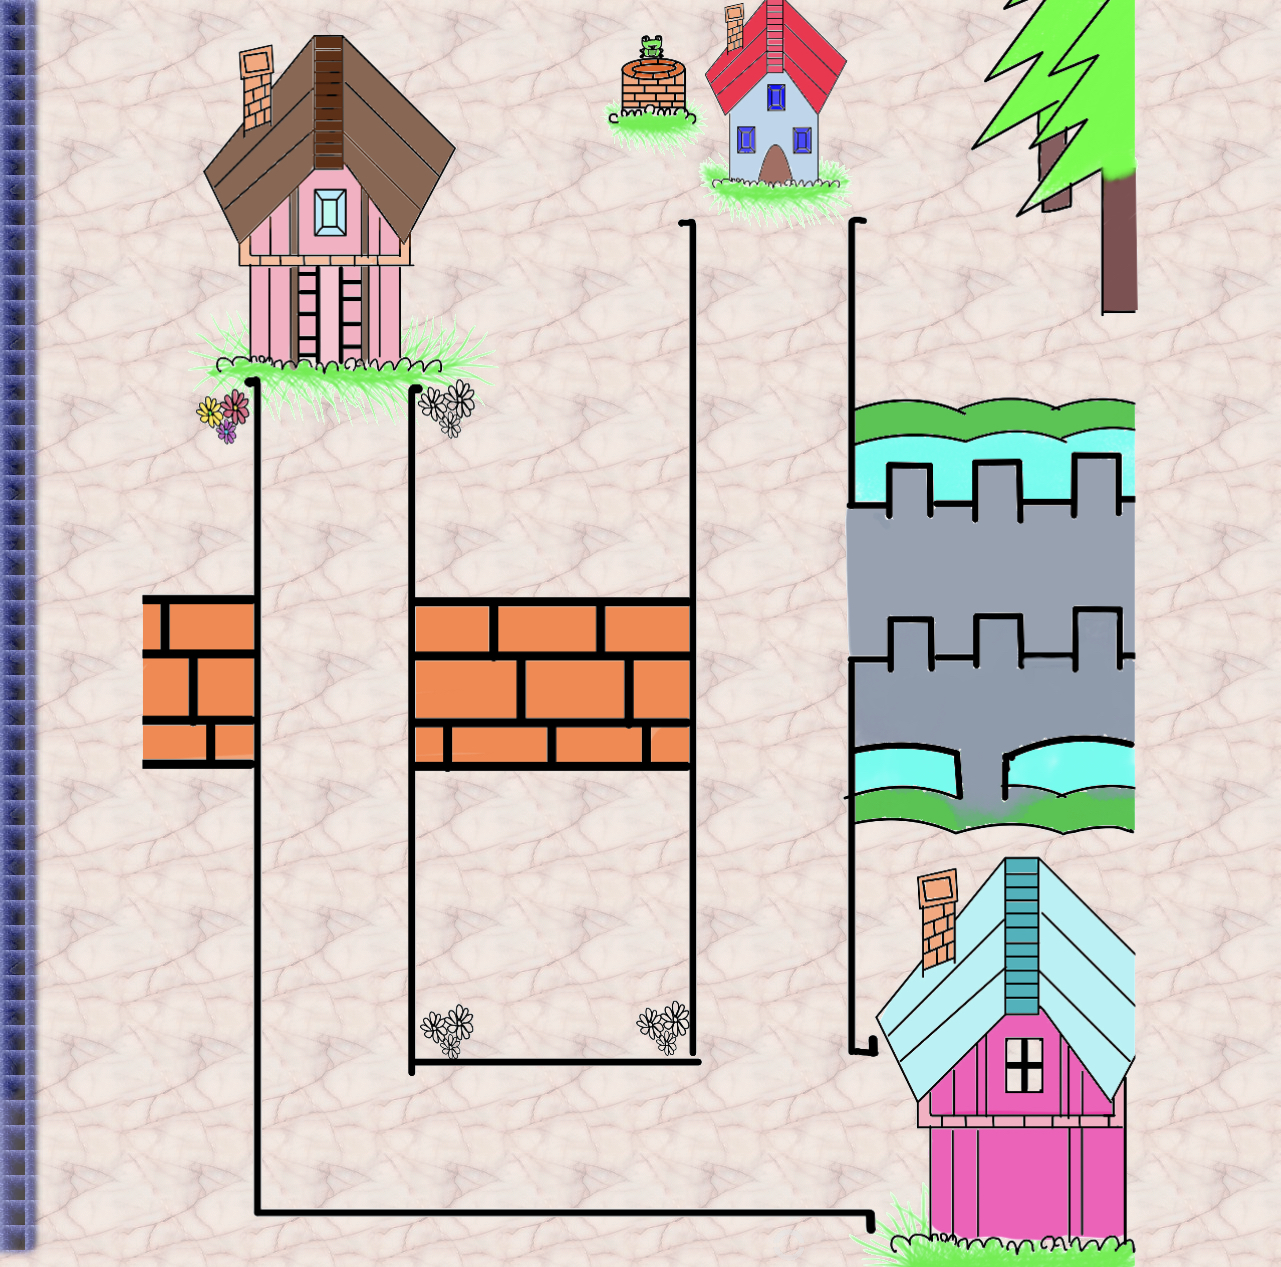
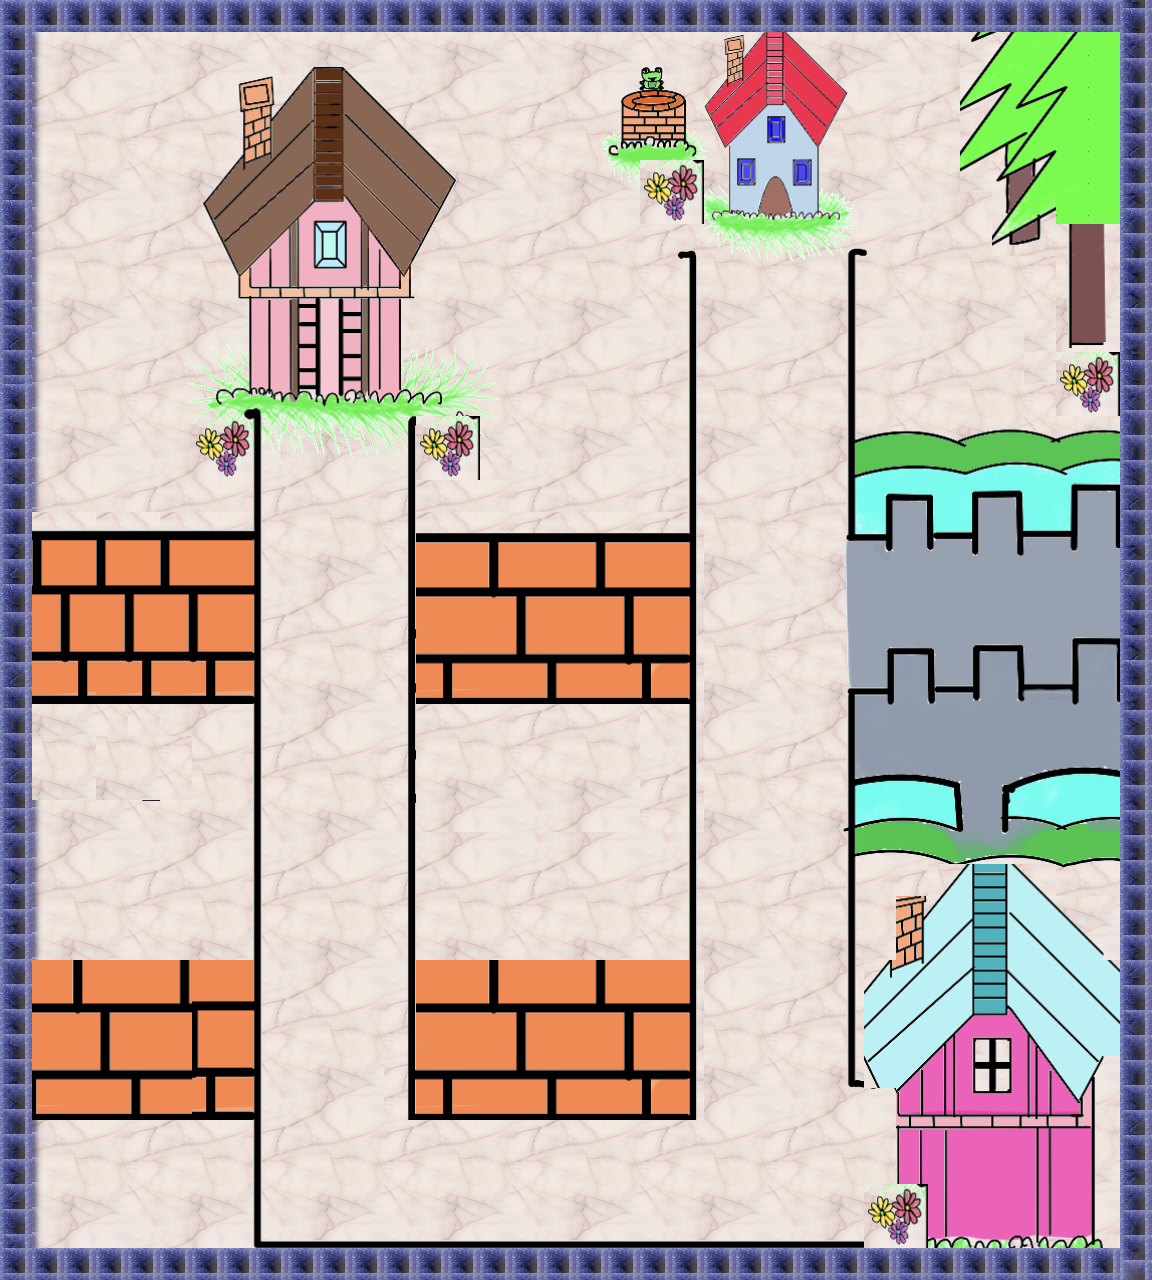
Fixed Level 4-3 - Fixed collidable walls

diff --git a/src/benchmark2/scene/Level3.ts b/src/benchmark2/scene/Level3.ts
@@ -5,17 +5,16 @@ export class Level3_1 extends GameLevel {
     loadScene(): void {
         this.loadMainResources()
         let bombJSONArray = [
-        "res/data/bombs1_1.json",
-        "res/data/bombs1_1var2.json",
+        "res/data/level1/bombs1_1.json",
+        "res/data/level1/bombs1_1var2.json",
         ];
 
         this.loadRandomBombsJSON(bombJSONArray);
 
         this.load.tilemap("level", "res/tilemaps/level3/Level3_1.json"); // Load tile map
-        this.load.object("start_end", "res/data/start_end1_1.json"); //Load player and green flag coordinates
-        this.load.object("enemyData", "res/data/enemy1_1.json"); // Load enemy info
-        this.load.object("itemData", "res/data/items.json"); // Load item info
-        this.load.object("blockData", "res/data/blocks1_1.json"); // Load block info
+        this.load.object("start_end", "res/data/level1/start_end1_1.json"); //Load player and green flag coordinates
+        this.load.object("enemyData", "res/data/level1/enemy1_1.json"); // Load enemy info
+        this.load.object("blockData", "res/data/level1/blocks1_1.json"); // Load block info
     }
 
     startScene(): void {
@@ -35,11 +34,10 @@ export class Level3_2 extends GameLevel {
       this.loadMainResources();
   
       this.load.tilemap("level", "res/tilemaps/level3/Level3_2.json"); // Load tile map
-      this.load.object("start_end", "res/data/start_end1_2.json"); //Load player and green flag coordinates
-      this.load.object("enemyData", "res/data/enemy1_2.json"); // Load enemy info
-      this.load.object("bombData", "res/data/bombs1_2.json"); // Load bomb info
-      this.load.object("itemData", "res/data/items.json"); // Load item info
-      this.load.object("blockData", "res/data/blocks1_2.json"); // Load block info
+      this.load.object("start_end", "res/data/level1/start_end1_2.json"); //Load player and green flag coordinates
+      this.load.object("enemyData", "res/data/level1/enemy1_2.json"); // Load enemy info
+      this.load.object("bombData", "res/data/level1/bombs1_2.json"); // Load bomb info
+      this.load.object("blockData", "res/data/level1/blocks1_2.json"); // Load block info
     }
   
     startScene(): void {
@@ -58,11 +56,10 @@ export class Level3_3 extends GameLevel {
   loadScene(): void {
     this.loadMainResources();
     this.load.tilemap("level", "res/tilemaps/level3/Level3_3.json"); // Load tile map
-    this.load.object("start_end", "res/data/start_end1_3.json"); //Load player and green flag coordinates
-    this.load.object("enemyData", "res/data/enemy1_3.json"); // Load enemy info
-    this.load.object("bombData", "res/data/bombs1_3.json"); // Load bomb info
-    this.load.object("itemData", "res/data/items.json"); // Load item info
-    this.load.object("blockData", "res/data/blocks1_3.json"); // Load block info
+    this.load.object("start_end", "res/data/level1/start_end1_3.json"); //Load player and green flag coordinates
+    this.load.object("enemyData", "res/data/level1/enemy1_3.json"); // Load enemy info
+    this.load.object("bombData", "res/data/level1/bombs1_3.json"); // Load bomb info
+    this.load.object("blockData", "res/data/level1/blocks1_3.json"); // Load block info
   }
 
   startScene(): void {
@@ -82,11 +79,10 @@ export class Level3_4 extends GameLevel {
     // Load resources (tilemap, audio, spritesheets)
     this.loadMainResources();
     this.load.tilemap("level", "res/tilemaps/level3/Level3_4.json"); // Load tile map
-    this.load.object("start_end", "res/data/start_end1_4.json"); //Load player and green flag coordinates
-    this.load.object("enemyData", "res/data/enemy1_4.json"); // Load enemy info
-    this.load.object("bombData", "res/data/bombs1_4.json"); // Load bomb info
-    this.load.object("itemData", "res/data/items.json"); // Load item info
-    this.load.object("blockData", "res/data/blocks1_4.json"); // Load block info
+    this.load.object("start_end", "res/data/level1/start_end1_4.json"); //Load player and green flag coordinates
+    this.load.object("enemyData", "res/data/level1/enemy1_4.json"); // Load enemy info
+    this.load.object("bombData", "res/data/level1/bombs1_4.json"); // Load bomb info
+    this.load.object("blockData", "res/data/level1/blocks1_4.json"); // Load block info
   }
 
   startScene(): void {

diff --git a/src/benchmark2/scene/Level4.ts b/src/benchmark2/scene/Level4.ts
@@ -5,17 +5,16 @@ export class Level4_1 extends GameLevel {
     loadScene(): void {
         this.loadMainResources()
         let bombJSONArray = [
-        "res/data/bombs1_1.json",
-        "res/data/bombs1_1var2.json",
+        "res/data/level1/bombs1_1.json",
+        "res/data/level1/bombs1_1var2.json",
         ];
 
         this.loadRandomBombsJSON(bombJSONArray);
 
         this.load.tilemap("level", "res/tilemaps/level4/Level4_1.json"); // Load tile map
-        this.load.object("start_end", "res/data/start_end1_1.json"); //Load player and green flag coordinates
-        this.load.object("enemyData", "res/data/enemy1_1.json"); // Load enemy info
-        this.load.object("itemData", "res/data/items.json"); // Load item info
-        this.load.object("blockData", "res/data/blocks1_1.json"); // Load block info
+        this.load.object("start_end", "res/data/level1/start_end1_1.json"); //Load player and green flag coordinates
+        this.load.object("enemyData", "res/data/level1/enemy1_1.json"); // Load enemy info
+        this.load.object("blockData", "res/data/level1/blocks1_1.json"); // Load block info
     }
 
     startScene(): void {
@@ -35,11 +34,10 @@ export class Level4_2 extends GameLevel {
       this.loadMainResources();
   
       this.load.tilemap("level", "res/tilemaps/level4/Level4_2.json"); // Load tile map
-      this.load.object("start_end", "res/data/start_end1_2.json"); //Load player and green flag coordinates
-      this.load.object("enemyData", "res/data/enemy1_2.json"); // Load enemy info
-      this.load.object("bombData", "res/data/bombs1_2.json"); // Load bomb info
-      this.load.object("itemData", "res/data/items.json"); // Load item info
-      this.load.object("blockData", "res/data/blocks1_2.json"); // Load block info
+      this.load.object("start_end", "res/data/level1/start_end1_2.json"); //Load player and green flag coordinates
+      this.load.object("enemyData", "res/data/level1/enemy1_2.json"); // Load enemy info
+      this.load.object("bombData", "res/data/level1/bombs1_2.json"); // Load bomb info
+      this.load.object("blockData", "res/data/level1/blocks1_2.json"); // Load block info
     }
   
     startScene(): void {
@@ -58,11 +56,10 @@ export class Level4_3 extends GameLevel {
   loadScene(): void {
     this.loadMainResources();
     this.load.tilemap("level", "res/tilemaps/level4/Level4_3.json"); // Load tile map
-    this.load.object("start_end", "res/data/start_end1_3.json"); //Load player and green flag coordinates
-    this.load.object("enemyData", "res/data/enemy1_3.json"); // Load enemy info
-    this.load.object("bombData", "res/data/bombs1_3.json"); // Load bomb info
-    this.load.object("itemData", "res/data/items.json"); // Load item info
-    this.load.object("blockData", "res/data/blocks1_3.json"); // Load block info
+    this.load.object("start_end", "res/data/level1/start_end1_3.json"); //Load player and green flag coordinates
+    this.load.object("enemyData", "res/data/level1/enemy1_3.json"); // Load enemy info
+    this.load.object("bombData", "res/data/level1/bombs1_3.json"); // Load bomb info
+    this.load.object("blockData", "res/data/level1/blocks1_3.json"); // Load block info
   }
 
   startScene(): void {
@@ -82,11 +79,10 @@ export class Level4_4 extends GameLevel {
     // Load resources (tilemap, audio, spritesheets)
     this.loadMainResources();
     this.load.tilemap("level", "res/tilemaps/level4/Level4_4.json"); // Load tile map
-    this.load.object("start_end", "res/data/start_end1_4.json"); //Load player and green flag coordinates
-    this.load.object("enemyData", "res/data/enemy1_4.json"); // Load enemy info
-    this.load.object("bombData", "res/data/bombs1_4.json"); // Load bomb info
-    this.load.object("itemData", "res/data/items.json"); // Load item info
-    this.load.object("blockData", "res/data/blocks1_4.json"); // Load block info
+    this.load.object("start_end", "res/data/level1/start_end1_4.json"); //Load player and green flag coordinates
+    this.load.object("enemyData", "res/data/level1/enemy1_4.json"); // Load enemy info
+    this.load.object("bombData", "res/data/level1/bombs1_4.json"); // Load bomb info
+    this.load.object("blockData", "res/data/level1/blocks1_4.json"); // Load block info
   }
 
   startScene(): void {
